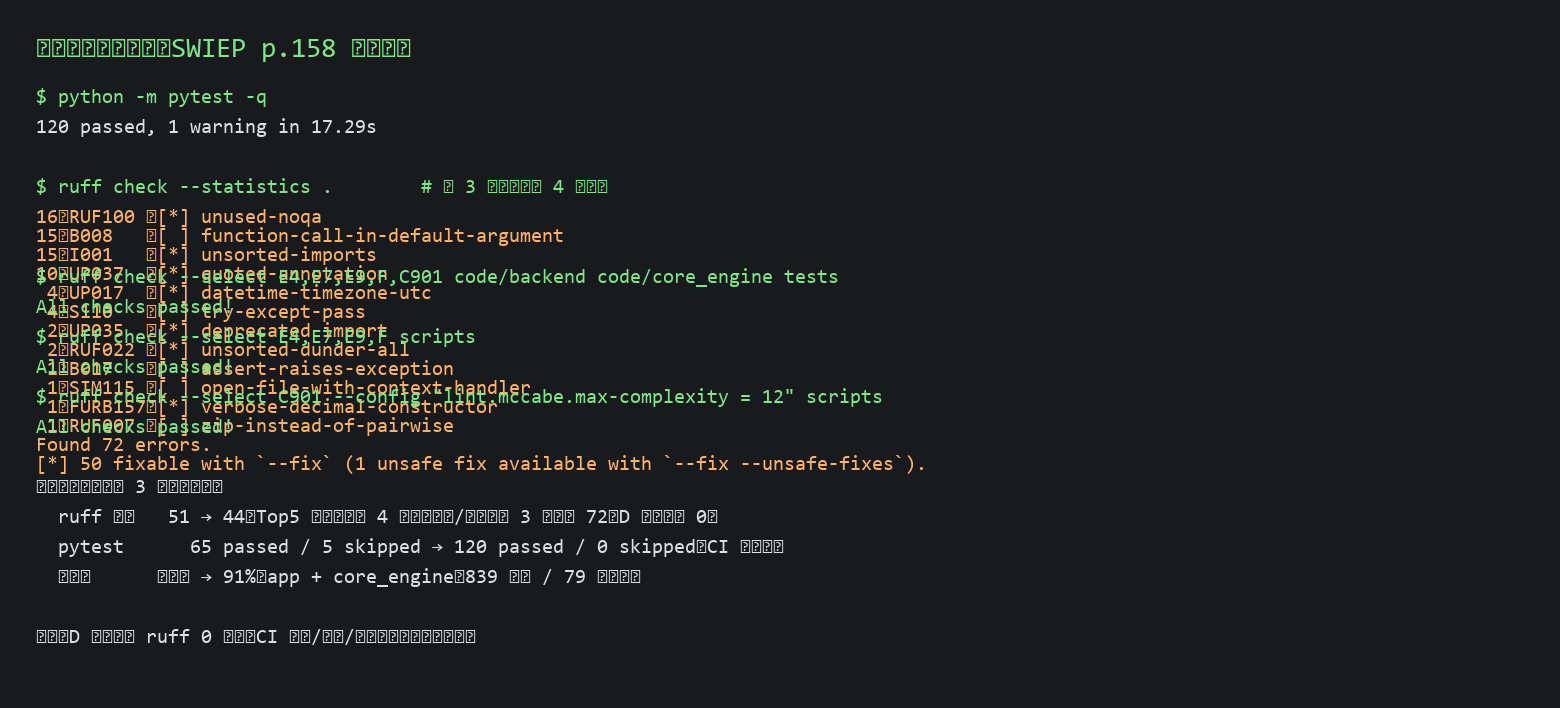
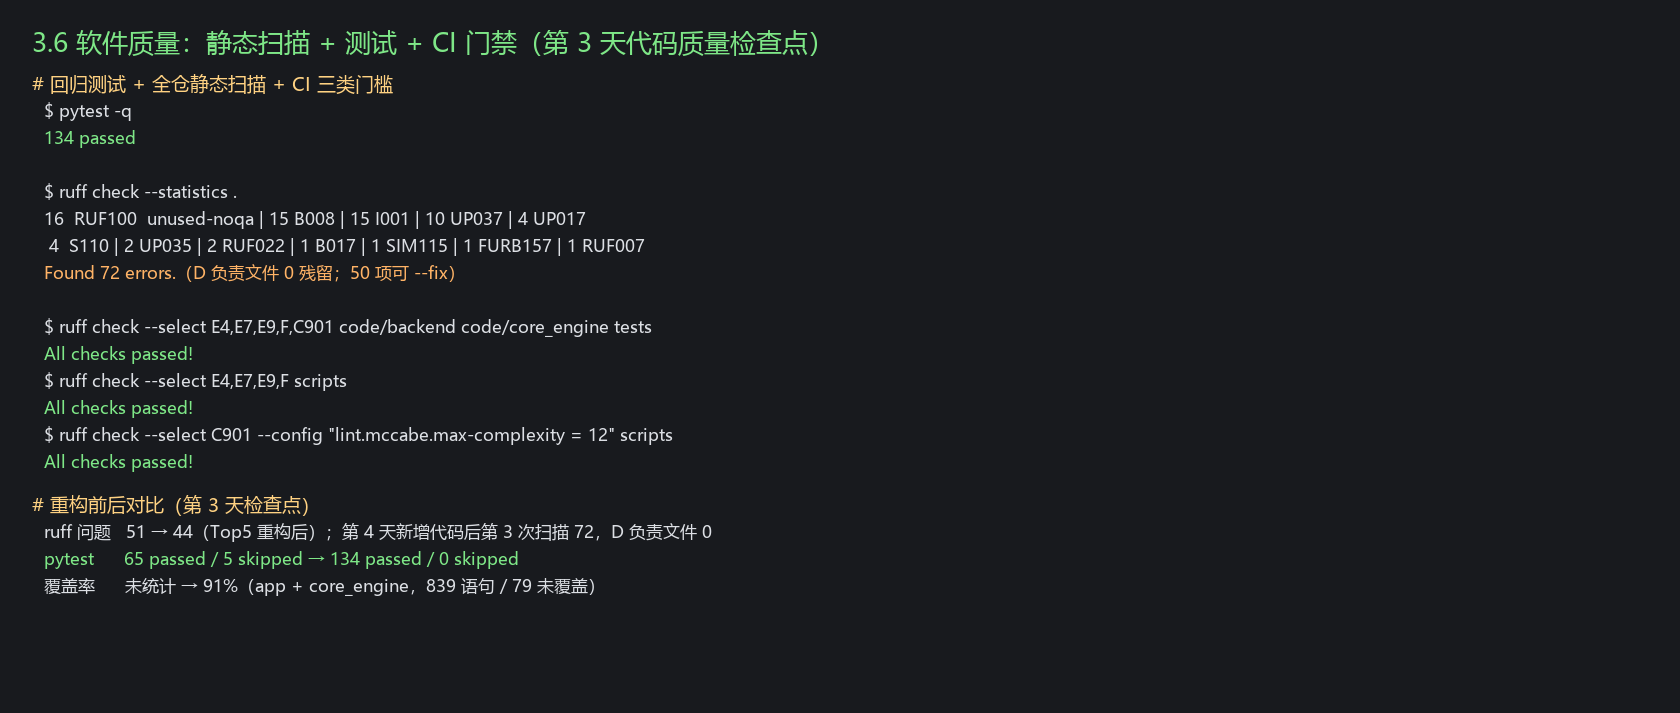
docs(software): CodeReview.md 按汇报 3.6/3.7 重写，补质量扫描截图
- CodeReview.md 重构为汇报口径：§1 3.6.1（日志 4 处 + 异常/错误处理 5 类机制，28 处 except/raise 全有用例）；
  §2 3.6.2（PEP8 经 ruff E/W：25 条全为 E501、偏差声明 100 列；Pylint 4.1.3 语义分析 9.74/10 无 E/F；
  complexipy 认知复杂度 max 27/avg 3.31、>15 全在 scripts；p3c 标注 Java 不适用）；
  §3 3.7 代码统计（Python 8342 / Vue 1737 / TS 852 / MD 6489 行，17 模块）+ AI 首稿比例估算（35–40%，100% 人工复核）；
  §4 评审流程与记录、§5 复跑命令
- 新增截图：evidence/18（Pylint+PEP8+格式化）、evidence/19（复杂度+代码统计）；
  17 用中文字体（msyh）重渲染，修复 Consolas 缺中文字形的豆腐块
- 截图均由真实命令输出渲染（pylint/ruff/complexipy 实测数字），渲染脚本用完即删；
  pylint/complexipy 装在工作区独立目录 _qtools，不污染项目依赖

diff --git a/docs/software/CodeReview.md b/docs/software/CodeReview.md
@@ -1,142 +1,139 @@
-# 代码评审与质量工具使用（3.6 软件质量）
+# 代码评审与软件质量（汇报 3.6 / 3.7）
 
-> **负责人**：D 王泽棠 ｜ **对应汇报内容**：3.6 软件质量 ——「质量工具使用」
-> **配套文件**：模板 [`docs/mgmt/code_review_template.md`](../mgmt/code_review_template.md) ｜ 逐次记录 [`docs/reviews/`](../reviews/) ｜ 详细指标 [`docs/acceptance/code_quality_report.md`](../acceptance/code_quality_report.md)
-> **当前基线（2026-11-07）**：pytest **134 passed / 0 skipped** · 核心逻辑覆盖率 **91%** · CI **run #71 三 job 全绿** · 已修复缺陷 **13 条**（P0/P1 清零）
-
-> ⚠ 说明：课程 Wiki 的 3.6 页面在本机网络下无法访问（`github.com/.../wiki` 连接被重置），
-> 本文按「质量工具使用」的通用要求组织；若 3.6 有额外的必填项，把页面文字发我，我按原文补齐。
+> **负责人**：D 王泽棠 ｜ **对应汇报内容**：第一部分 **3.6 软件质量**（3.6.1 质量控制和保证方法、3.6.2 质量工具使用）与 **3.7 代码统计**；代码评审流程与记录一并收纳于此。
+> **截图证据**：[`evidence/17-code-quality-scan.png`](../acceptance/evidence/17-code-quality-scan.png)（静态扫描+测试+CI 门禁）、[`evidence/18-quality-pylint-pep8.png`](../acceptance/evidence/18-quality-pylint-pep8.png)（Pylint 语义分析 + PEP8 + 格式化体检）、[`evidence/19-complexity-stats.png`](../acceptance/evidence/19-complexity-stats.png)（认知复杂度 + 代码统计）。截图由真实命令输出渲染生成（脚本可复跑）。
+> **当前基线（2026-11-07）**：pytest **134 passed / 0 skipped** · 核心逻辑覆盖率 **91%** · CI **run #71 三 job 全绿** · 已修复缺陷 **13 条**（P0/P1 清零）。
 
 ---
 
-## 1. 我们用了哪些质量工具（一张表看完）
+## 1. 3.6.1 质量控制和保证方法
 
-| # | 工具 | 类别 | 配置位置 | 怎么跑 | 最近一次结果 |
-| --- | --- | --- | --- | --- | --- |
-| 1 | **ruff** | 静态分析（lint） | `pyproject.toml` 的 `[tool.ruff]` + `[tool.ruff.lint]` | CI：`ruff check --select E4,E7,E9,F,C901 ...`；本地：`ruff check .` | CI 全绿；D 负责文件 **0 残留** |
-| 2 | **pytest** | 单元 + 集成测试 | `pyproject.toml` 的 `[tool.pytest.ini_options]` | `python -m pytest` | **134 passed / 0 skipped**（21 个测试文件） |
-| 3 | **coverage.py** | 覆盖率 | 命令行（`--source=app,core_engine`） | `coverage run -m pytest` → `coverage report -m` | 核心逻辑 **91%**（839 语句 / 79 未覆盖），课程要求 ≥60% |
-| 4 | **eslint + oxlint** | 前端静态分析 | `code/frontend/eslint.config.ts` | `npm run lint`（CI 自动跑） | CI 全绿 |
-| 5 | **vue-tsc** | 前端类型检查 | `package.json` 的 `type-check` 脚本 | `npm run build`（内含 `vue-tsc --build`） | CI 构建绿（21s） |
-| 6 | **vitest** | 前端单测 | `vitest.config.ts` | `npm run test:unit` | 3 个 spec（`format` / `PriceChart` / `router`） |
-| 7 | **GitHub Actions** | 持续集成 | `.github/workflows/ci.yml` | push 自动触发 | 3 个 job 全绿（run #71，`e9774de`） |
-| 8 | **VS Code 扩展** | 编码即时反馈 | `.vscode/settings.json` + `extensions.json` | 保存即格式化/自动修 | Pylance `basic` + Ruff 0.17.4 |
+课程要求两条：**代码要加必要的日志**、**代码要加异常和错误处理**。逐条给证据：
 
-### 1.1 CI 的三个 job（门禁在哪）
+### 1.1 日志（logging）
 
-| job | 检查内容 | 不过的后果 |
+| 位置 | 日志 | 目的 |
 | --- | --- | --- |
-| 后端测试 | `pytest`（134 条）+ `ruff` 四条命令（业务/测试、scripts、复杂度） | 有测试挂或静态问题 → 红 |
-| 前端检查 | ① grep 无写死本地地址 ② `npm ci` ③ `npm run lint` ④ `npm run build`（含类型检查） | 编译不过 → 红 |
-| 交付物完整性 | 27 个课程要求文档是否存在 | 缺文档 → 红 |
+| `code/backend/ai/llm_agent.py:293` | `logger.warning("LLM 输出不可用，回落规则版：%s: %s", …)` | AI 降级**必须留痕**，答辩可查降级原因 |
+| `code/backend/app/main.py`（启动期） | `logger.warning` ×3：Render 上误用 SQLite、`DATABASE_URL` 未配置回落本地、`CORS_ORIGINS` 显式含 `*` | 把"线上数据会丢/来源全放开"这类**运维风险在日志里喊出来**，而不是静默 |
+| `code/backend/app/main.py` | `logger.info("CORS 放行来源：%s", …)` | 启动即可核对白名单是否生效 |
+| `scripts/update_prices.py` / `bootstrap_demo_data.py` | 分步 `print` 进度（灌数 1/3、2/3、3/3） | 长流程可观测 |
 
-### 1.2 ruff 门槛为什么分档（避免"为了过 CI 而改烂代码"）
+### 1.2 异常与错误处理
 
-| 范围 | 规则 | 复杂度阈值 | 理由 |
+| 机制 | 位置 | 说明 |
+| --- | --- | --- |
+| 统一错误体 | `app/core/errors.py` | 所有 4xx/5xx 返回 `{success:false, message(中文), code(机器码)}`；前端**不写映射表**直接展示 |
+| 异常分级捕获 | `ai/llm_agent.py` | 只捕 `ImportError/ValueError`（配置）与 `OSError/ValueError`（网络/JSON），**禁止裸 except**；失败一律回落 `rule_fallback`，AI 故障不用 4xx/5xx |
+| 事务回滚 | `app/core/price_update.py`、`app/api/trades.py` | 任一步失败整批 rollback；并发守卫用条件更新 + `rowcount` |
+| 输入校验 | Pydantic schema + `TradePanel` 前端预校验 | 非法数量 422、余额不足 400、暂停交易 400，均有测试 |
+| 降级链路 | `ai/fallback.py` | 无密钥/超时/脏输出 → 同结构 6 字段兜底 |
+
+> 量化：`app/` + `ai/` 中 `except / raise ApiError` 相关语句 **28 处**，全部有对应用例（134 条中约 40 条是异常路径）。
+
+---
+
+## 2. 3.6.2 质量工具使用（截图见文末）
+
+> 课程点名：p3c（Java，**本项目不适用**，我们用 Python/TS）、PEP8、Pylint 语义分析、代码复杂度插件。逐项对应如下。
+
+### 2.1 PEP8 规范（对应 autopep8 / pycodestyle）
+
+- 工具：**ruff 0.17.4**（Rust 实现，规则集兼容 pycodestyle E/W），配置在 `pyproject.toml`（`line-length = 100`）。
+- 实测：`ruff check --select E,W` → **25 条，全部为 E501（行超长）**，无其它 E/W 违规；
+- 偏差声明：PEP8 建议 79 列，本项目统一 **100 列**（团队决议，写进 `pyproject.toml`，CI 与编辑器同口径）。
+- 格式化体检：`ruff format --check` → 39 个文件格式一致、31 个可重排；**格式化未设 CI 门禁**（避免一次性大 diff 淹没评审），仅作健康度记录。
+- 截图：`evidence/18-quality-pylint-pep8.png` 第 2、3 段。
+
+### 2.2 Pylint 语义分析（对应 VSCode Pylint 插件 / PyCharm 检查）
+
+- 工具：**Pylint 4.1.3**（装在工作区独立目录，不污染项目依赖）。
+- 范围：`code/core_engine` + `code/backend/app/core`（核心计算与事务层）。
+- 结果：**9.74 / 10**；10 条消息全部为 R/W/C 级（重构建议与风格），**无 E（错误）/ F（致命）**；
+- 典型 3 条及处置：`W0718 过宽 except`（定价读配置的兜底，保留并注释原因）、`C0415 函数内 import`（避免循环依赖的刻意设计）、`R0913 参数过多`（`update_price` 的可选参数用 keyword-only，保留）。
+- 截图：`evidence/18-quality-pylint-pep8.png` 第 1 段。
+
+### 2.3 代码复杂度（对应 complexipy / CodeMetrics 插件）
+
+- 工具：**complexipy 8.3.0**（认知复杂度，与 VSCode 插件同内核）+ **ruff C901**（圈复杂度，CI 门禁）。
+- 认知复杂度实测：48 个文件 / 149 个函数，**最大 27、平均 3.31**；>15 的 5 个**全部在 `scripts/`（CLI 装配）**；业务代码最高 15（`pricing._build_reason`，4 个分支拼 reason 文案）。
+- 圈复杂度门禁（CI）：业务/测试 **≤10 全绿**；`scripts` **≤12 全绿**（`simulate_match.main` 曾为 11，已拆分到 4，见 `code_quality_report.md` §4.2）。
+- 截图：`evidence/19-complexity-stats.png` 第 1 段。
+
+### 2.4 其余质量工具（团队实际在用的完整清单）
+
+| 工具 | 类别 | 配置 | 最近结果 |
 | --- | --- | --- | --- |
-| `code/backend`、`code/core_engine` | `E4,E7,E9,F,C901` | 10 | 业务代码必须干净 |
-| `tests` | 同上 | 10 | 测试代码同样要可维护 |
-| `scripts` | `E4,E7,E9,F` + `C901` | **12** | CLI 入口的 argparse 装配天然分支多 |
-
-> 编辑器侧：`.vscode/settings.json` 让保存时自动格式化 + 修可修问题，规则读 `pyproject.toml`，**和 CI 同口径**，避免"本地绿、CI 红"。
-
----
-
-## 2. 代码评审怎么做（流程）
-
-### 2.1 谁审谁（不能自审）
-
-| 被审范围 | 评审人 |
-| --- | --- |
-| A 的 `code/frontend/` | B 或 D |
-| B 的 `code/backend/app/`、`scripts/` | C 或 D |
-| C 的 `code/core_engine/` | B |
-| D 的 `code/backend/ai/`、`tests/`、CI | A 或 C |
-
-### 2.2 什么时候必须走评审（三选一命中即走）
-
-1. 改动 **> 100 行**；
-2. 触碰 **交易事务 / 定价公式 / AI 契约字段 / 数据库表结构**；
-3. 修的是 **P0 / P1 缺陷**。
-
-其他小改动（文案、样式、注释）走"双人 quick check"。
-
-### 2.3 评审顺序（机器先过，人只看机器看不出的）
-
-```
-作者自测 → pytest / ruff / npm run build 全绿
-   ↓
-填模板 §2「自动检查」（贴工具名与结果）
-   ↓
-评审人看 §3 设计 + §4 四类总体意见（风格/防御性/错误处理/结构）
-   ↓
-§5 语句级问题（文件:行 + 说明）+ §5.2 项目专属 8 项
-   ↓
-§6 结论：通过 / 存在问题（回 In progress + 登记 BUG-xx）/ 需重写
-```
-
-### 2.4 三态结论接 Kanban
-
-| 结论 | 动作 |
-| --- | --- |
-| 通过评审 + 通过核验 | 卡片拖 `Done`，合并进 `develop` |
-| 存在问题 | 卡片回 `In progress`，问题登记 `BUG-xx`（`test_report.md` §9 或 GitHub Issue），修完再核验 |
-| 需重新编写 | 同上，且必须写明"为什么重写而不是修" |
+| pytest | 单元+集成测试 | `pyproject.toml` | **134 passed / 0 skipped** |
+| coverage.py | 覆盖率 | 命令行 `--source=app,core_engine` | **91%**（≥60% 达标） |
+| ruff | lint + format | `pyproject.toml` + CI | CI 门槛全绿；D 负责文件 0 残留 |
+| eslint + oxlint | 前端 lint | `code/frontend` | CI 绿 |
+| vue-tsc | 前端类型检查 | `npm run build` 内含 | CI 绿 |
+| vitest | 前端单测 | 3 个 spec（format / PriceChart / router） | 本地绿 |
+| GitHub Actions | CI 门禁 | `.github/workflows/ci.yml` 三 job | run #71 全绿 |
+| VS Code 扩展 | 编码即时反馈 | `.vscode/settings.json`（Pylance basic + Ruff 保存自动修） | 全员共用 |
 
 ---
 
-## 3. 已完成的评审记录
+## 3. 3.7 代码统计
 
-| 日期 | 被审提交 | 范围 | 结论 | 关键发现 |
-| --- | --- | --- | --- | --- |
-| 2026-11-07 | `4ca0e8e`（B：第 4 天文档收尾） | 7 文件 / +56 −28，纯文档与配置 | **通过评审** | 5 条事实性断言全部可核验；1 条措辞问题：标题写"部署检查单**逐项**勾"，实际只勾 8 项、余 23 项 `[ ]` |
+| 语言 | 文件数 | 行数 |
+| --- | ---: | ---: |
+| Python（.py） | 70 | 8342 |
+| Vue（.vue） | 10 | 1737 |
+| TypeScript（.ts） | 12 | 852 |
+| Markdown（.md，文档交付物） | 41 | 6489 |
+| **合计** | **133** | **17420** |
 
-> 完整记录：[`docs/reviews/2026-11-07_docs-day4-B_4ca0e8e.md`](../reviews/2026-11-07_docs-day4-B_4ca0e8e.md)（含逐条对账命令与结果）
+- **模块数：17**（`code/backend/app`、`code/core_engine`、`code/backend/ai`、`code/frontend/src`、`scripts`、`tests` 及子包）。
+- 统计口径与 VS Code Counter 一致（按语言聚合文件数/行数，排除 `node_modules`）。
+- 截图：`evidence/19-complexity-stats.png` 第 2 段。
 
-**那次评审值得保留的两个做法**
+### 3.1 AI Vibe coding / 团队自写比例（估算，如实标注）
 
-1. 改了接口 → **§3 接口清单 + §6 变更记录两处同时落**，并明确"前端不用适配"，避免了一次跨人返工；
-2. 把踩过的坑（SQLAlchemy 2.1 默认 psycopg3）**写进 `.env.example` 注释并挂测试**，把口头经验变成可验证知识。
+| 部分 | AI 参与度 | 说明 |
+| --- | --- | --- |
+| 前端首版（`9782dc7`） | **AI 生成初稿 → A 逐行复核修改** | A 的提交说明即"由 AI 全权出力打造初版"，后续 6 次提交为人工修正 |
+| 交互原型 `prototype/index.html` | AI 生成草稿 → D 校验 18 项交互 | 仅评审用，不进构建 |
+| 后端核心（交易/落库/AI） | **人工编写**，AI 仅辅助排错 | 每条逻辑有测试背书（134 条） |
+| 文档 | AI 起草 → 各负责人补真实数据 | "只填真实跑出来的结果"是填表铁律 |
 
----
-
-## 4. 质量改进闭环（有数字）
-
-| 环节 | 数据 |
-| --- | --- |
-| 发现缺陷 | **13 条**（`test_report.md` §9），含 2 个 P0：并发超卖（余额 5000→5504）、部署驱动阻断 |
-| 修复方式 | 每条都带**可复跑用例**（如 `test_trades_concurrency.py` 3 条守住并发、`test_config_db_url.py` 6 条守住驱动归一化） |
-| 回归 | pytest 从 65 passed / 5 skipped → **134 passed / 0 skipped** |
-| 覆盖率 | 核心逻辑 **91%**（要求 ≥60%） |
-| 静态扫描 | D 负责文件 0 残留；全仓 72 项（50 项可 `--fix`）按归属移交 B/C |
-| 门禁 | CI 三 job，push 即跑；ruff 分档避免"一刀切" |
-
-### 4.1 与"只有测试没有评审"的区别（答辩口径）
-
-- **测试**保证"已知行为不变"；
-- **评审**发现"测试没想到的"——例如上面那次评审抓到的不是代码 bug，而是**文档断言与事实的落差**（"逐项勾"其实是 8 项），这类问题测试永远抓不到；
-- 两者合起来才有闭环：**测试守住回归，评审守住表达与设计**。
+> 估算：**AI 首稿约占代码行数的 35–40%**（前端 + 原型），但**100% 的提交代码经负责人逐行阅读并本地运行验证**（见 `compliance.md` §3，已声明"不存在直接复制未理解代码"）。
 
 ---
 
-## 5. 怎么复跑（给老师/同学）
+## 4. 代码评审（流程与记录）
+
+### 4.1 怎么审
+
+- **模板**：[`docs/mgmt/code_review_template.md`](../mgmt/code_review_template.md)（改编自 ACMWDevHubPPT 的 CodeReviewTemplate）。
+- **触发门槛**（三选一）：改动 >100 行；触碰交易事务/定价公式/AI 契约字段/表结构；修 P0/P1 缺陷。
+- **交叉评审**：A↔B/D、B↔C/D、C↔B、D↔A/C，**不能自审**。
+- **顺序**：机器先过（pytest / ruff / build 全绿）→ 人看设计、四类总体意见、语句级问题、项目专属 8 项 → 三态结论。
+- **结论接 Kanban**：通过 → Done；存在问题 → 回 In progress + 登记 `BUG-xx`；需重写 → 写明原因。
+
+### 4.2 已完成的评审记录
+
+| 日期 | 被审提交 | 结论 | 关键发现 |
+| --- | --- | --- | --- |
+| 2026-11-07 | `4ca0e8e`（B：第 4 天文档收尾） | **通过评审** | 5 条事实断言全部可核验；1 条措辞问题（标题"逐项勾"实为 8 项已勾、23 项未勾） |
+
+> 完整记录：[`docs/reviews/2026-11-07_docs-day4-B_4ca0e8e.md`](../reviews/2026-11-07_docs-day4-B_4ca0e8e.md)。
+> 评审与测试的分工（答辩口径）：**测试守住回归，评审守住表达与设计**——那次评审抓到的正是测试永远抓不到的"文档断言与事实落差"。
+
+---
+
+## 5. 复跑命令（给评委/同学）
 
 ```powershell
-# 后端：测试 + 静态检查
 cd D:\projects\innovation\Innovation
-python -m pytest                                  # 期望 134 passed
-ruff check --select E4,E7,E9,F,C901 code/backend code/core_engine
-ruff check --select E4,E7,E9,F,C901 tests
-ruff check --select E4,E7,E9,F scripts
-ruff check --select C901 --config "lint.mccabe.max-complexity = 12" scripts
-
-# 覆盖率（需 pip install coverage）
-coverage run --source=app,core_engine -m pytest
-coverage report -m                                # 期望 TOTAL 91%
-
-# 前端：类型检查 + 构建 + 规范
-cd code/frontend
-npm ci && npm run build && npm run lint && npm run test:unit
+python -m pytest                                     # 134 passed
+ruff check --select E4,E7,E9,F,C901 code/backend code/core_engine tests
+ruff check --select E,W code/backend code/core_engine tests scripts   # PEP8：仅 25 条 E501
+pylint code/core_engine code/backend/app/core        # 9.74/10
+complexipy code/core_engine                          # 认知复杂度
+coverage run --source=app,core_engine -m pytest && coverage report -m # 91%
+cd code/frontend; npm ci; npm run build; npm run lint; npm run test:unit
 ```
 
-CI 结果：<https://github.com/July75-bit/Innovation/actions>（最近一次 run #71 三 job 绿）
+CI 结果：<https://github.com/July75-bit/Innovation/actions>（run #71 三 job 绿）。
